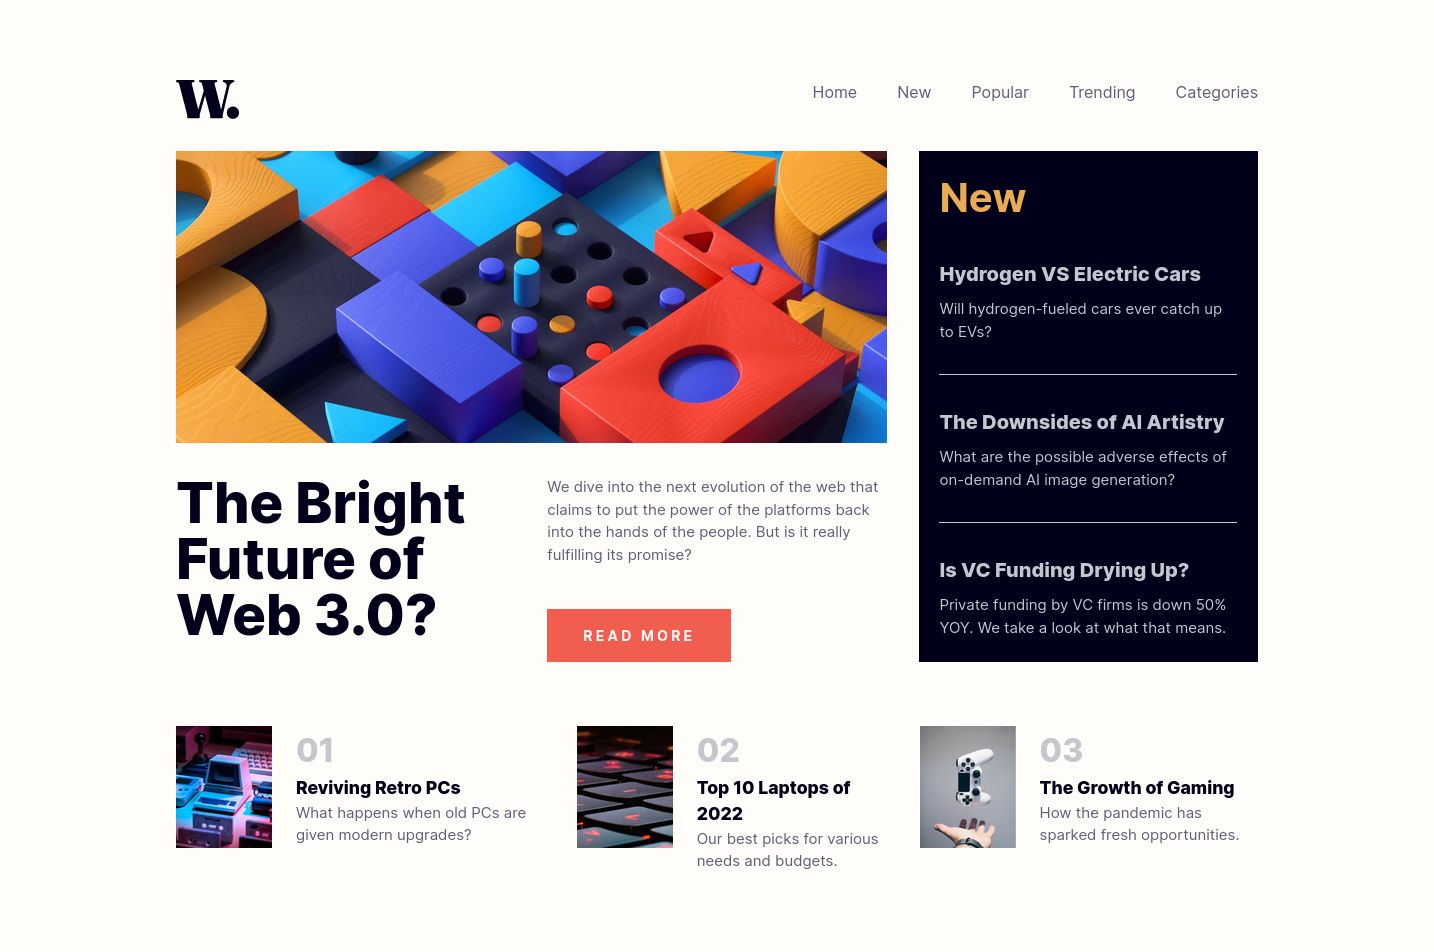
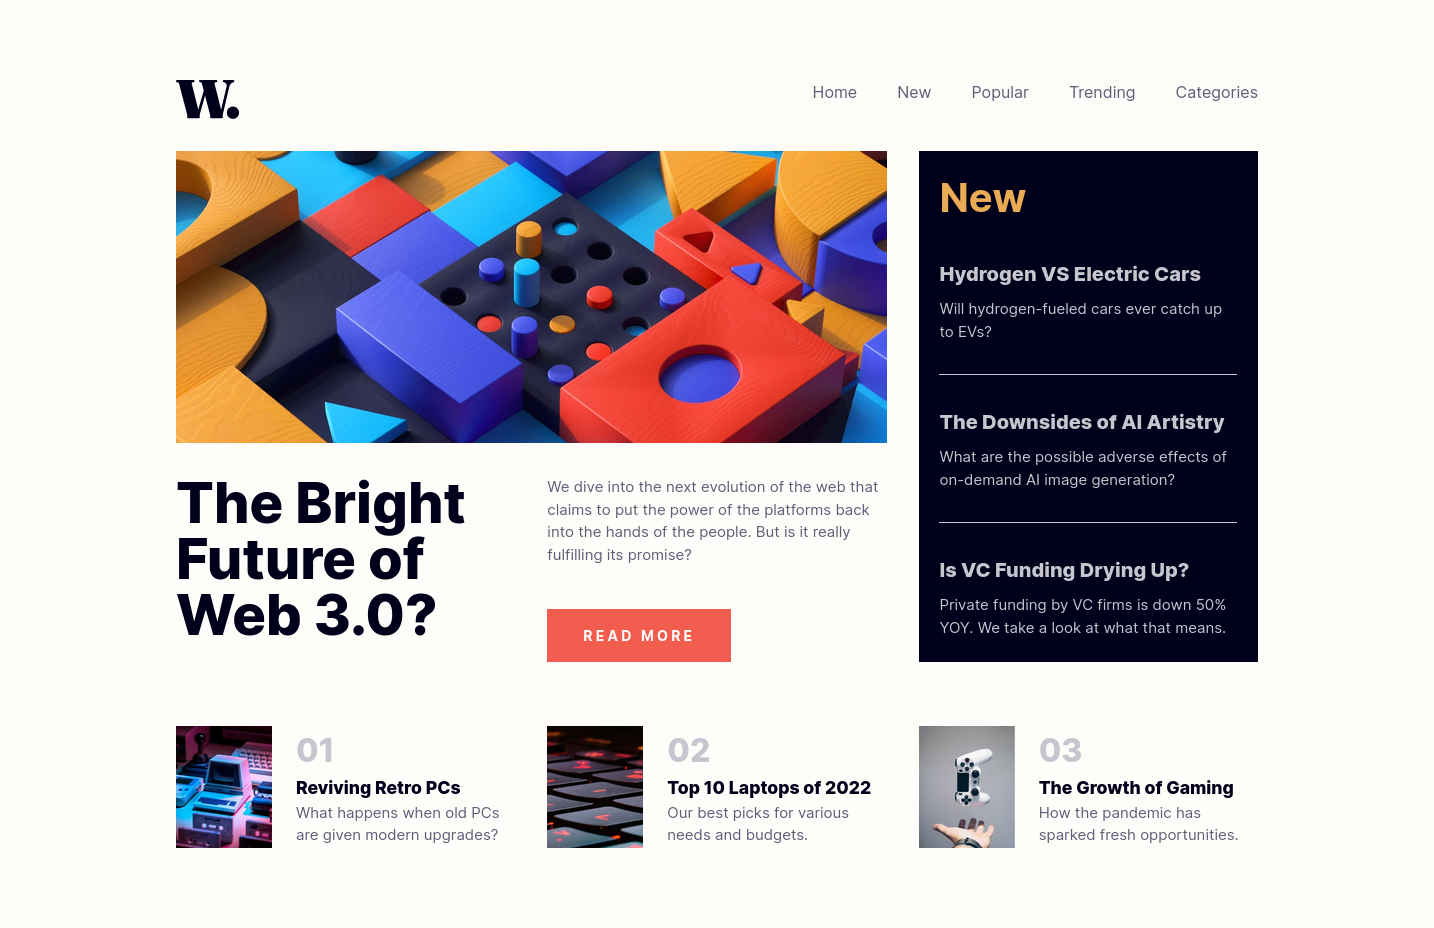
Changed Top article section to use grid instead of flex to allow even space usage

diff --git a/style.css b/style.css
@@ -185,8 +185,8 @@ header {
 }
 
 .top-articles {
-    display: flex;
-    flex-direction: column;
+    display: grid;
+    grid-template-rows: repeat(3, 1fr);
     gap: 2rem;
 }
 
@@ -217,7 +217,7 @@ header {
 @media (min-width: 1000px) {
     .top-articles {
         margin-top: 4rem;
-        flex-direction: row;
-
+        grid-template-rows: unset;
+        grid-template-columns: repeat(3, 1fr);
     }
 }
